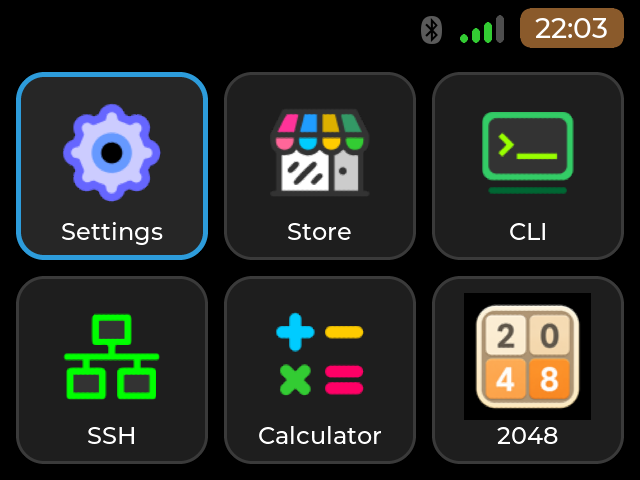
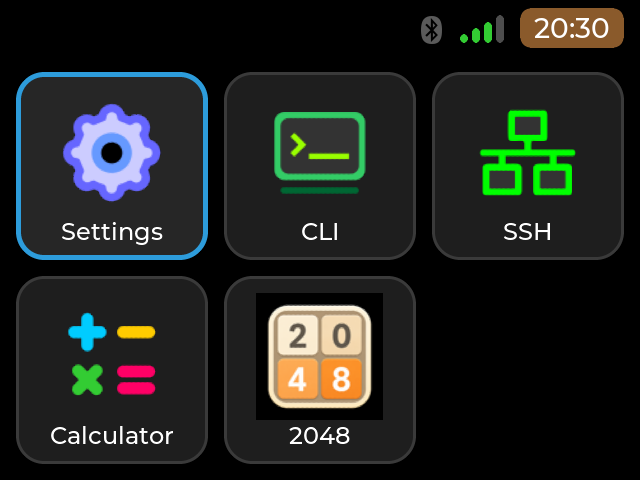
docs: PDA and deck images re-rendered with the v0.10.10 harness
The Pi 3A+ images, the deck's Wi-Fi and Settings > Apps images and the
Store sync image are older captures and say so in the README.

Claude-Session: https://claude.ai/code/session_01DZirtJsMfHq7t5PFzh86rt

diff --git a/README.md b/README.md
@@ -59,14 +59,15 @@ upscaled window for the legacy 320x170 apps, and has since grown into the launch
 
 ## Screenshots
 
-Captured from each board's own framebuffer: the deck (Raspberry Pi Zero 2 W, 640x480) on the left and the
-Raspberry Pi 3A+ with the Waveshare 4.3" DSI panel (800x480) on the right: one code base, two screens. Network names
-are pixelated. The home grid of the deck has Store and 2048 on its first page; the 3A+ has neither installed. These
-captures are older than v0.9.0, which removed the Store tile, Snake, Tank and IP Panel from main (see
-[Branches](#branches-main-and-small-screen)); LAN Scan and Wi-Fi Survey in the Settings > Apps pictures are 320x170
-apps of the `small-screen` branch now. They are also older than v0.8.12, whose status strip keeps a place for the SSH
-indicator (the Esc button and the page titles sit further left), and than v0.10.0, whose Settings > Apps shows the line
-of its update check under the title.
+The deck pictures (640x480, left) are renders made by the launcher's render harness at v0.10.10 (the home grid, Settings,
+Bluetooth, Calculator and the SSH form; the sample data is made up). The Raspberry Pi 3A+ pictures (Waveshare 4.3" DSI
+panel, 800x480, right) and the Wi-Fi and Settings > Apps pictures of the deck are captures from the boards' own
+framebuffers; network names are pixelated. These captures are older than v0.9.0, which removed the Store tile, Snake,
+Tank and IP Panel from main (see [Branches](#branches-main-and-small-screen)); LAN Scan and Wi-Fi Survey in the
+Settings > Apps pictures are 320x170 apps of the `small-screen` branch now. They are also older than v0.8.12, whose
+status strip keeps a place for the SSH indicator (the Esc button and the page titles sit further left), than v0.10.0,
+whose Settings > Apps shows the line of its update check under the title, and than the shorter page titles of later
+versions (Settings > Wi-Fi is just "Wi-Fi" now).
 
 | Deck, 640x480 | Raspberry Pi 3A+, 800x480 |
 | --- | --- |
@@ -97,9 +98,8 @@ is only on the `small-screen` branch; main keeps the Store program as the engine
 ## The PDA profile in pictures
 
 Renders of the portrait profile (480x800), made by the launcher's own render harness, not photographs of the board.
-The full guide is [docs/PDA-PROFILE.md](docs/PDA-PROFILE.md). They were made with v0.8.8 to v0.8.11; since then the
-Store tile is gone (v0.9.0), a long tile name stays on one line (v0.9.3) and the status strip keeps a place for the SSH
-indicator (v0.8.12).
+The full guide is [docs/PDA-PROFILE.md](docs/PDA-PROFILE.md). They were
+re-rendered with v0.10.10.
 
 | Home grid | Text field and band | Pen ink | Terminal, Ctrl armed |
 | --- | --- | --- | --- |
@@ -115,7 +115,7 @@ Since v0.8.11 apps built for it draw the band too (the Serial Console first; see
 
 | Keyboard | Keyboard setting | Strokes training | Glyph picker |
 | --- | --- | --- | --- |
-| ![Standard keyboard with its close cross](docs/images/pda/pda-keyboard-cross.png) | ![Settings, On-screen keyboard](docs/images/pda/pda-setting-keyboard.png) | ![Strokes training page](docs/images/pda/pda-training.png) | ![Glyph picker](docs/images/pda/pda-training-picker.png) |
+| ![Standard keyboard with its close cross](docs/images/pda/pda-keyboard-cross.png) | ![Settings, Screen keyboard](docs/images/pda/pda-setting-keyboard.png) | ![Strokes training page](docs/images/pda/pda-training.png) | ![Glyph picker](docs/images/pda/pda-training-picker.png) |
 | Keyb shows it; the cross closes it | Auto, On, Handwriting + keyboard | A glyph with its chart stroke, four attempts | Grey, green and amber glyphs |
 
 ## Inspiration and credits

diff --git a/docs/PDA-PROFILE.md b/docs/PDA-PROFILE.md
@@ -3,9 +3,7 @@
 Since v0.8.8 the launcher can run upright, as a small handheld with a pen: a portrait screen, a handwriting band at the
 bottom for text, and a single-stroke handwriting alphabet you can train on your own hand. This page says what it is,
 how to turn it on and how to write with it. The pictures are renders made by the launcher's render harness at 480x800,
-not photographs of the board. They were made with v0.8.8 to v0.8.11: since then the Store tile is gone (v0.9.0), a long
-tile name stays on one line (v0.9.3), the status strip keeps a place for the SSH indicator, so Esc and the page titles
-sit further left, and two titles are shorter ("Key test", "Screen keyboard"; v0.8.12).
+not photographs of the board. They were re-rendered with v0.10.10.
 
 ## What it is
 
@@ -80,7 +78,7 @@ Settings > System > On-screen keyboard has three values:
 
 Off no longer exists. A stored Off reads as Auto.
 
-![Settings, On-screen keyboard](images/pda/pda-setting-keyboard.png)
+![Settings, Screen keyboard](images/pda/pda-setting-keyboard.png)
 
 ## Apps with the band
 
